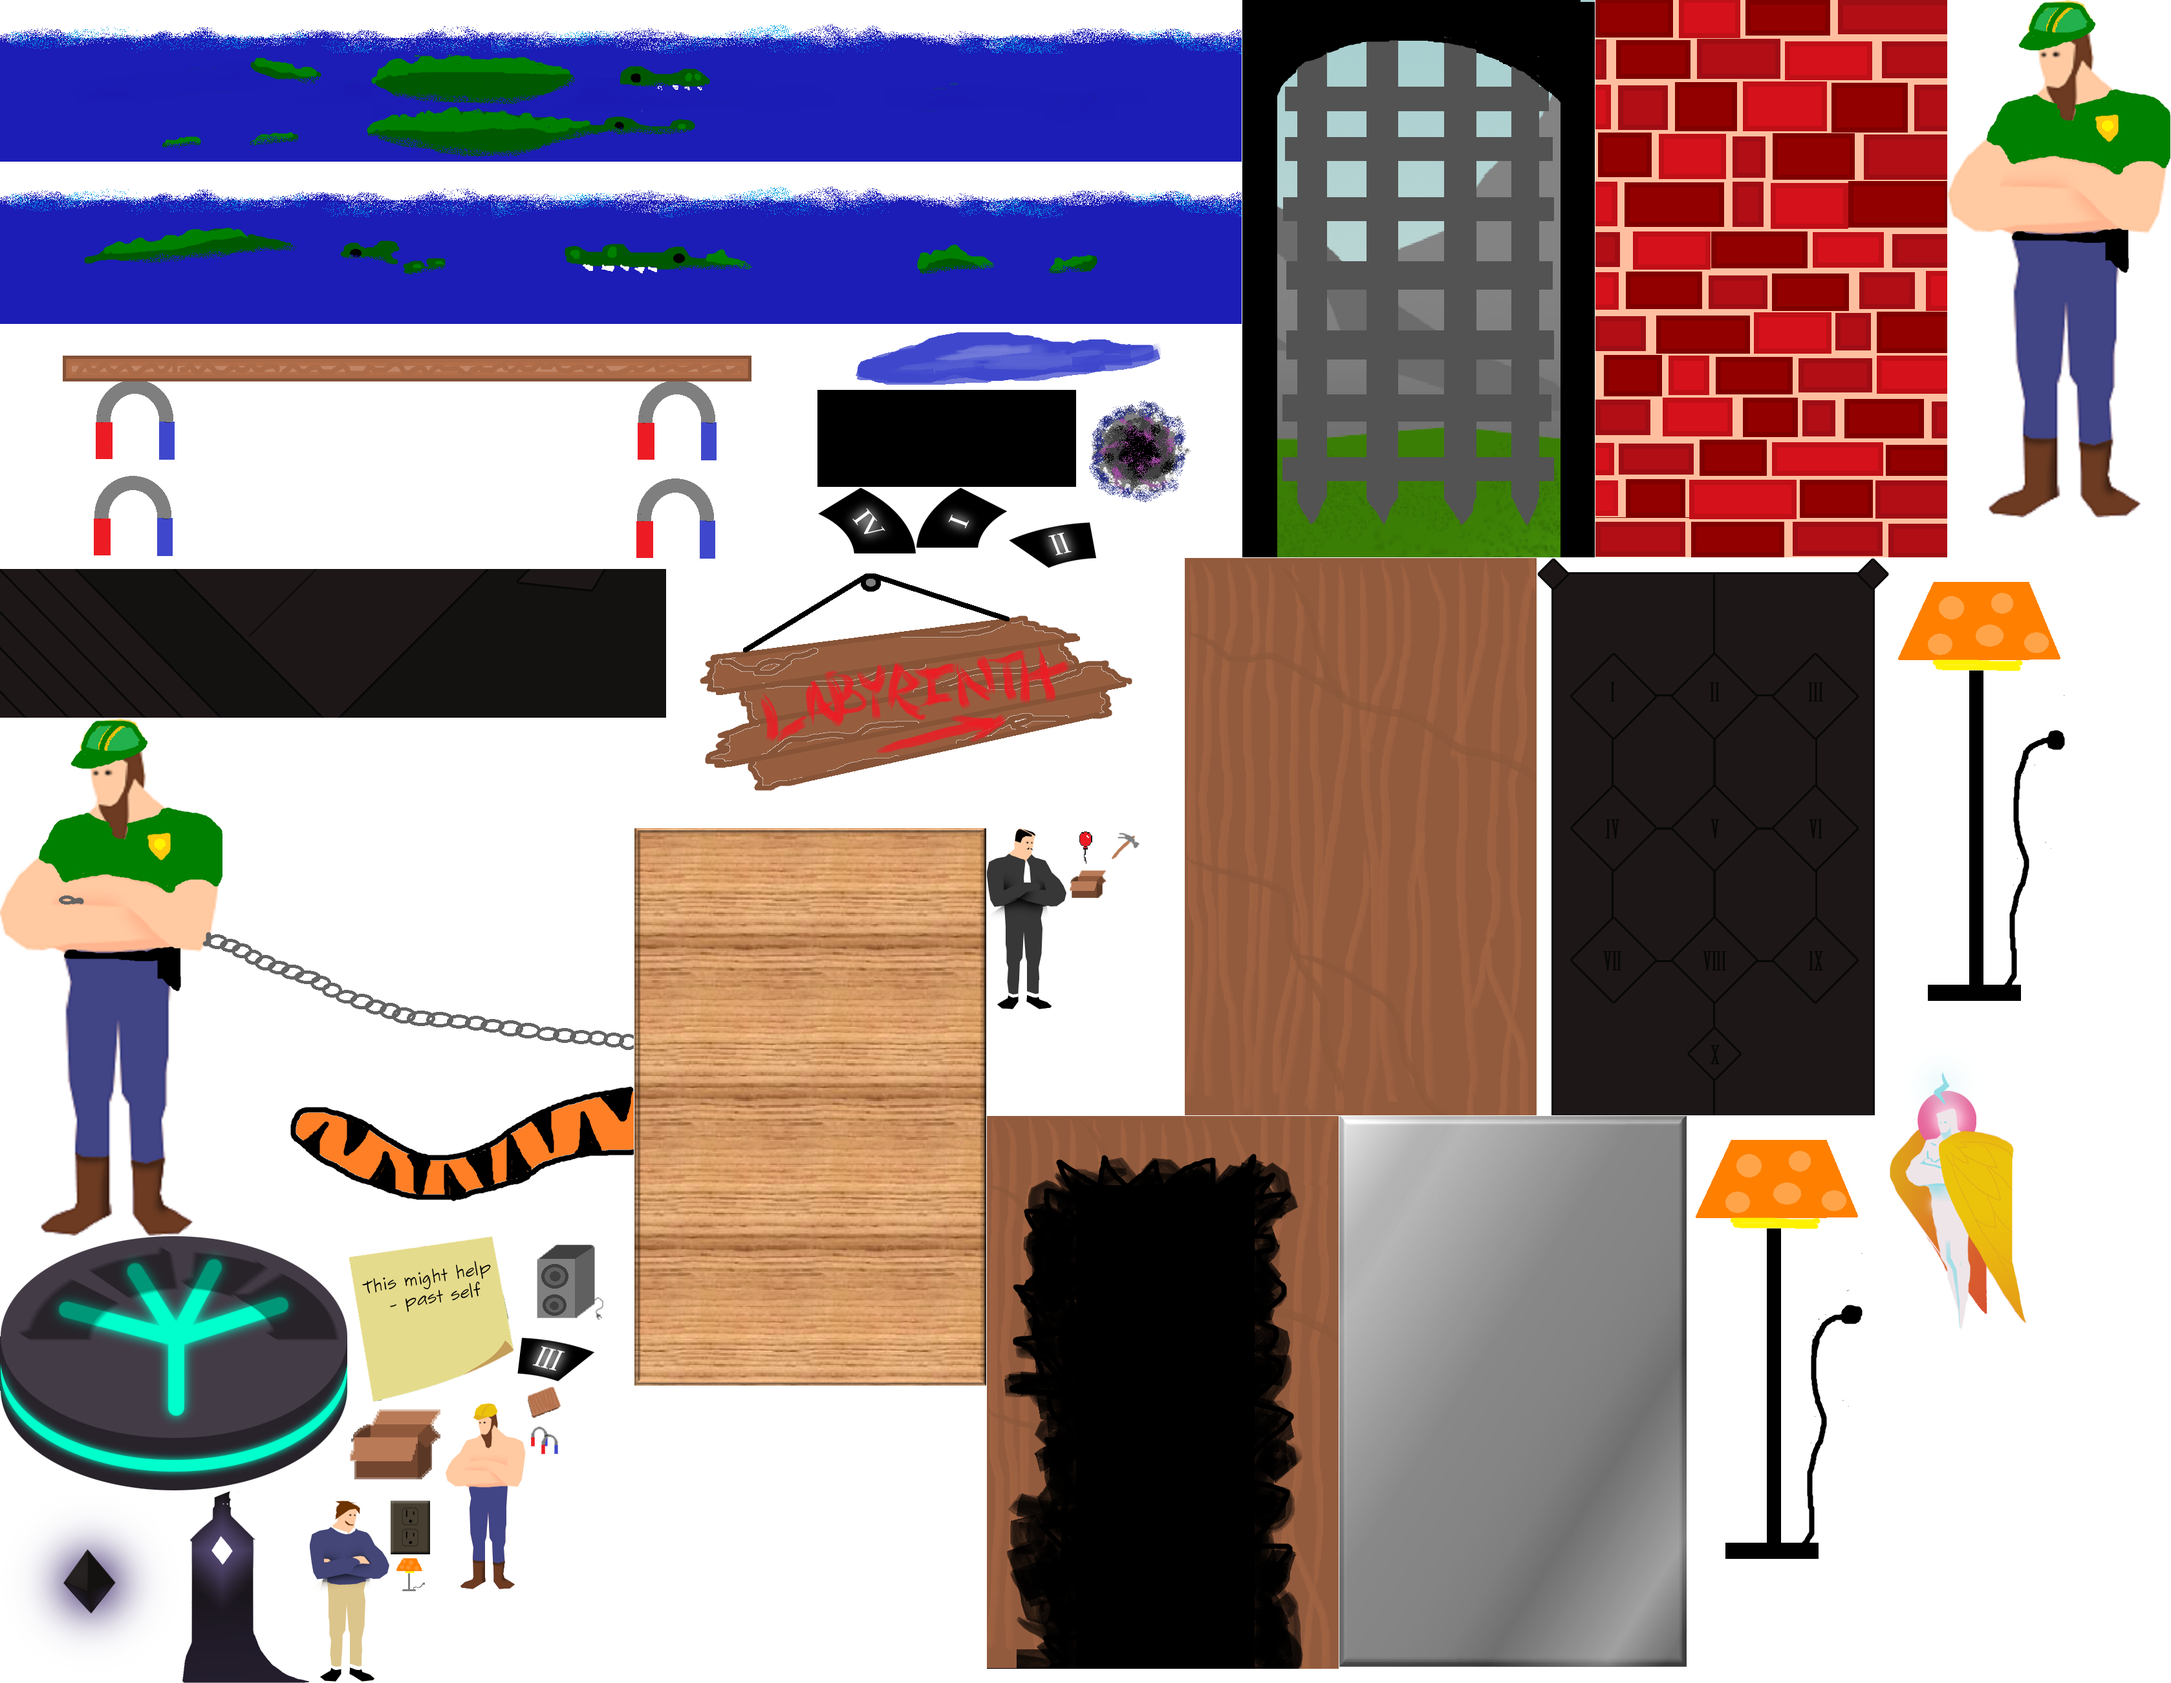
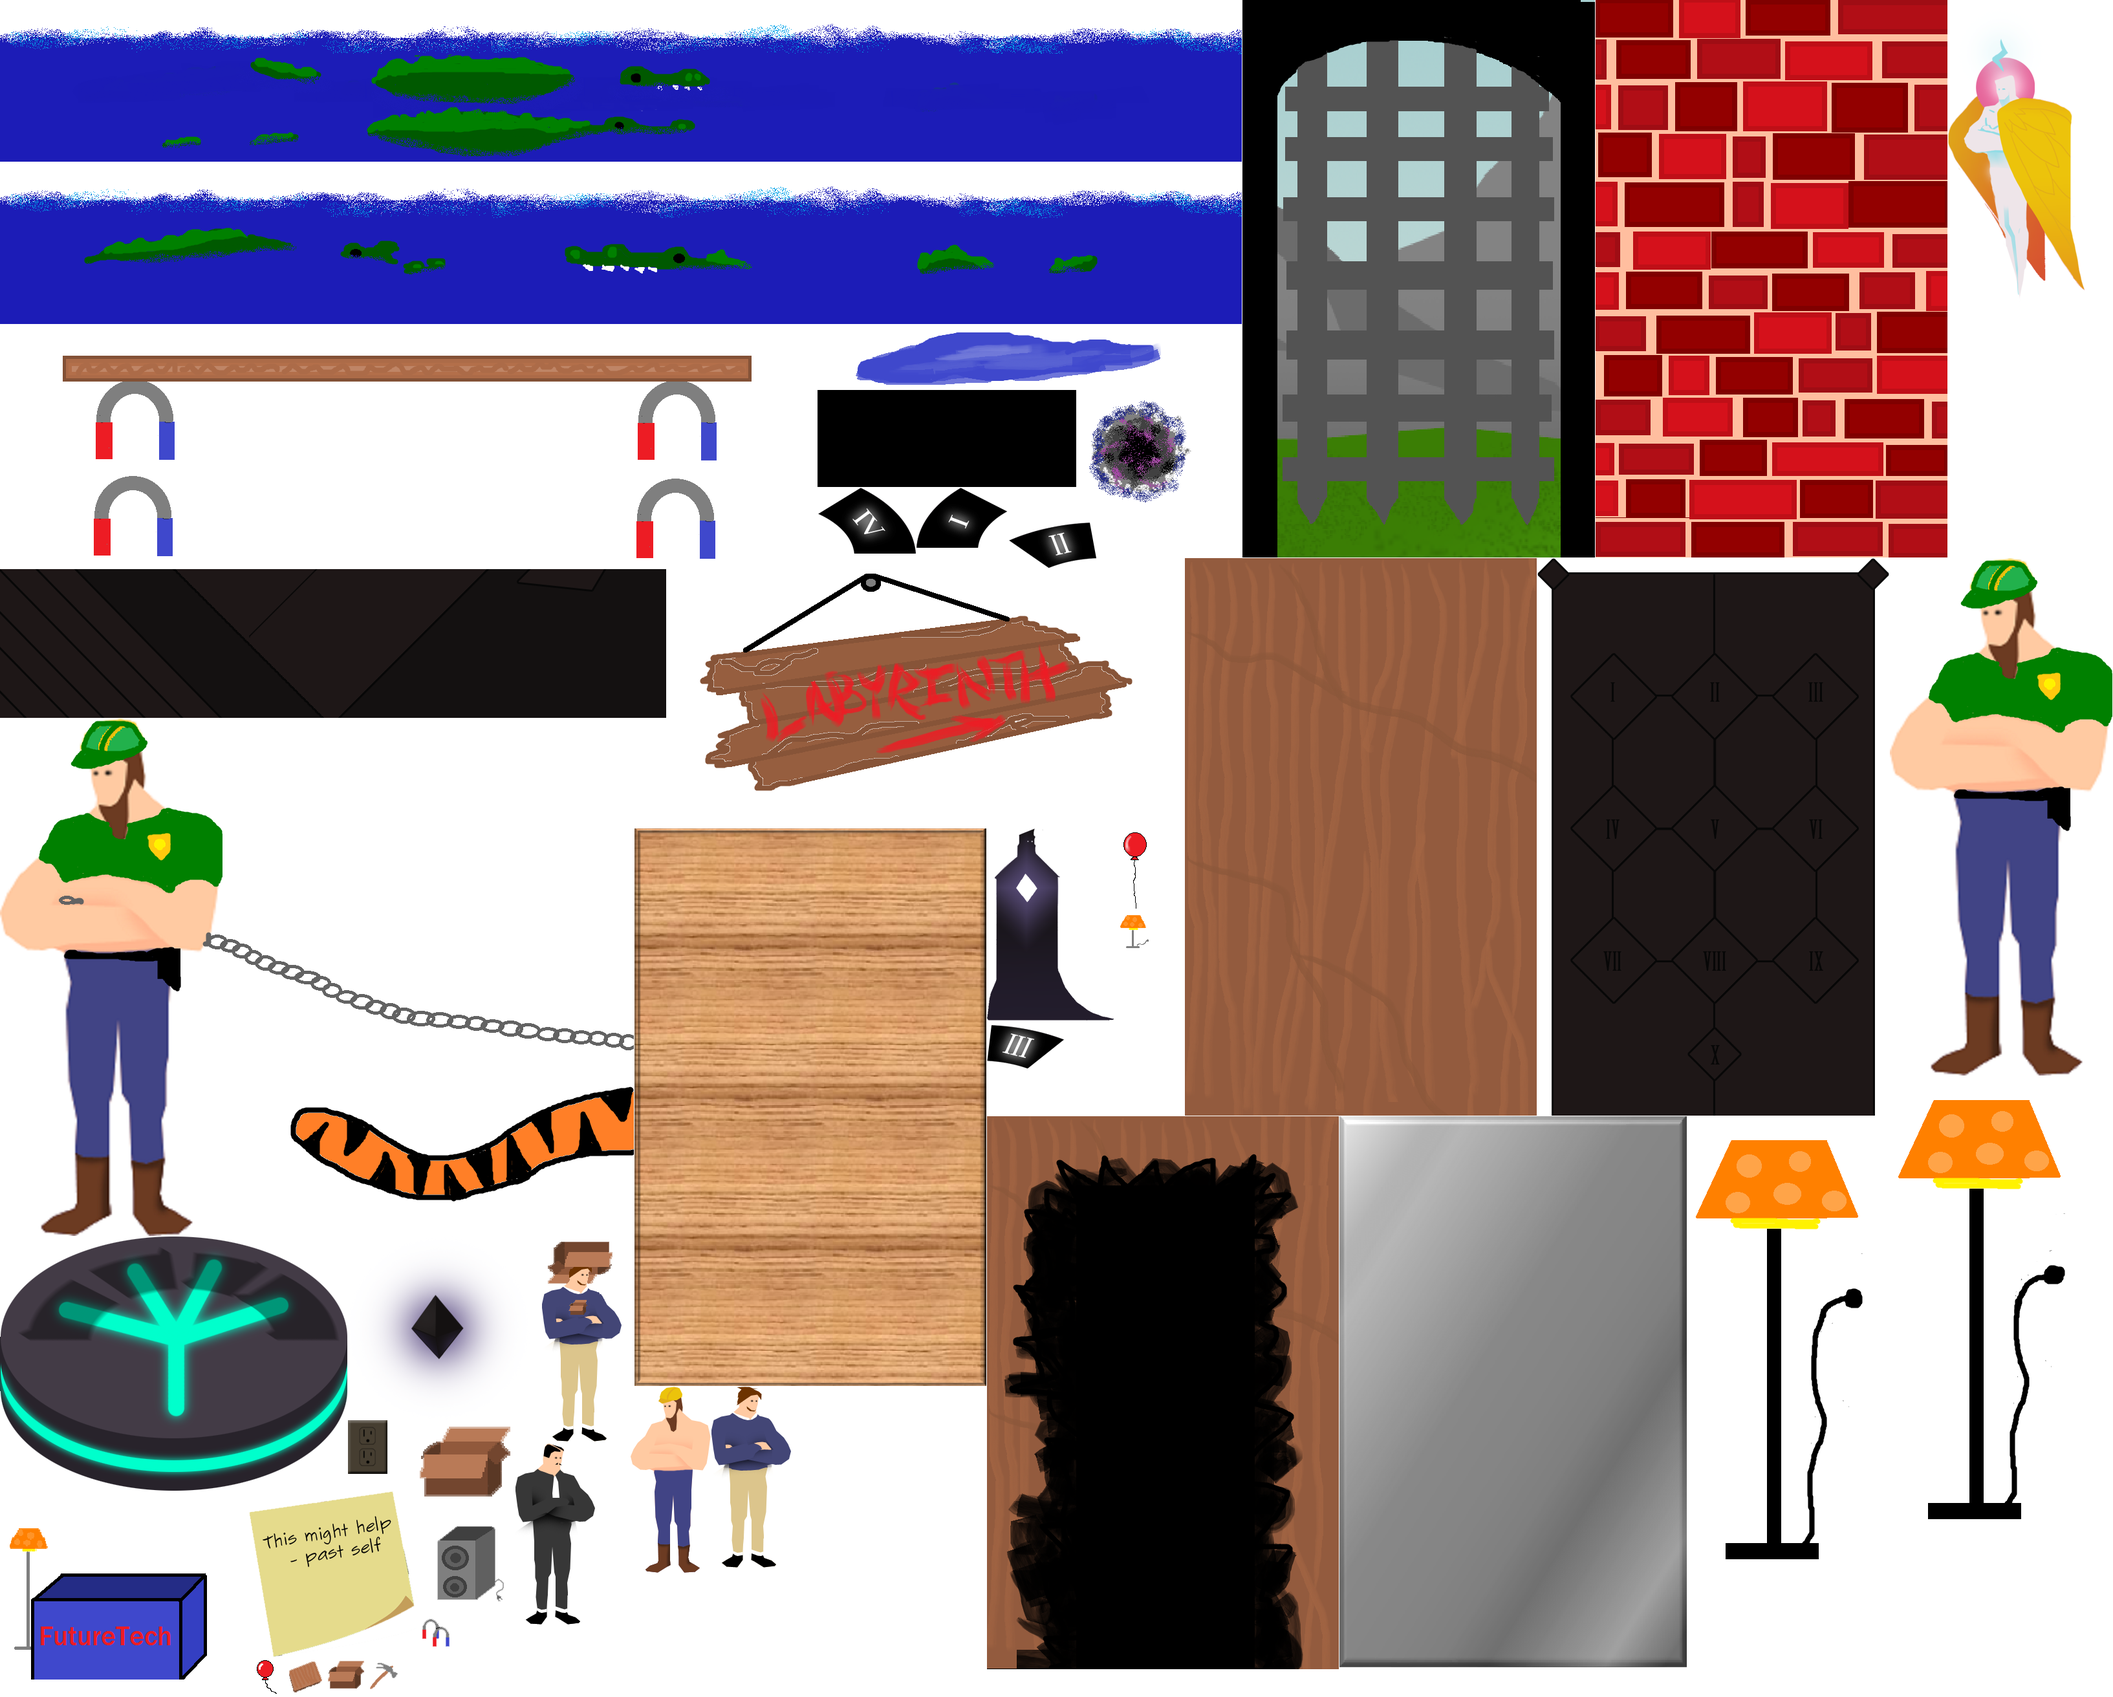
a few more images

diff --git a/index.bundle.js b/index.bundle.js
@@ -42867,7 +42867,8 @@ module.exports=//NO_FUTURE_TECH
 			"responses":[
 				{
 					"text": "Sure!",
-					"getItem": "balloon"
+					"getItem": "balloon",
+					"setGlobalTrue": "GAINED_BALLOON"
 				},
 				{
 					"text": "Only idiots would be impressed by balloons.",
@@ -46533,6 +46534,11 @@ ConstructionScene.prototype.added = function()
 		action: "triggerConversation",
 		target: require("../data/future_tech_conversation.json")
 	})
+	var tech_table = this.createClickableSprite("tech_table", -100, 100);
+	tech_table.addFalse("NO_FUTURE_TECH");
+	var balloon = this.createClickableSprite("balloonLarge", -40, -20);
+	balloon.addTrue("CARNIVAL");
+	balloon.addFalse("GAINED_BALLOON")
 	var hammer = this.createClickableSprite("hammer", 300, 320);
 	hammer.addAction({
 		action: "collectItem",
@@ -47575,52 +47581,55 @@ module.exports =
 "general":
 {
 	url: "media/general_atlas.png",
-	width: 3357,
-	height: 2603,
+	width: 3267,
+	height: 2624,
 	filter: THREE.LinearFilter,
 	sprites:
 	{
-	"balloon":[1653,1281,60,60],
+	"balloon":[384,2564,60,60],
+	"balloonLarge":[1723,1281,72,128],
 	"brickwall":[2467,0,544,862],
-	"builder_guy":[689,2170,124,288],
-	"cardboard":[814,2140,60,60],
-	"cardboardbox":[1653,1342,60,60],
-	"cardboardboxlarge":[538,2170,150,150],
+	"builder_guy":[975,2144,124,288],
+	"cardboard":[445,2564,60,60],
+	"cardboard_preacher":[820,1912,154,319],
+	"cardboardbox":[506,2564,60,60],
+	"cardboardboxlarge":[646,2196,150,150],
 	"cardboardWall":[1832,863,544,862],
 	"cardboardWallBroken":[1526,1726,544,855],
-	"crystal":[0,2306,281,283],
+	"crystal":[538,1912,281,283],
 	"empty_pit":[0,880,1030,230],
 	"grad_circle":[1697,804,64,64],
 	"grad_r":[1762,804,64,64],
-	"guard":[3012,0,344,800],
+	"guard":[2922,863,344,800],
 	"guardandtiger":[0,1111,980,800],
-	"hammer":[1714,1281,60,60],
-	"heaven_angel":[2922,1598,212,467],
-	"heaven_player":[282,2306,196,297],
+	"hammer":[567,2564,60,60],
+	"heaven_angel":[3012,0,212,467],
+	"heaven_player":[1526,1281,196,297],
 	"keydoor":[2377,863,544,862],
 	"labyrinth_sign":[1031,880,800,400],
-	"lamp":[604,2405,60,60],
-	"lampbig":[2922,863,300,734],
-	"lamplarge":[2609,1726,300,734],
-	"magnets":[814,2201,60,60],
+	"lamp":[1723,1410,60,60],
+	"lampbig":[2609,1726,300,734],
+	"lamplarge":[2922,1664,300,734],
+	"magnets":[646,2498,60,60],
 	"moat_full":[0,0,1920,250],
 	"moat_hungry":[0,251,1920,250],
-	"normal_guy_sprite":[479,2321,124,280],
-	"outlet":[604,2321,61,83],
+	"normal_guy_sprite":[1100,2144,124,280],
+	"outlet":[538,2196,61,83],
 	"pit_bridge":[0,502,1263,226],
 	"pit_edge":[1264,603,400,150],
 	"pit_magnets":[0,729,1263,150],
 	"portcullis":[1921,0,545,862],
 	"puddle":[1264,502,600,100],
-	"speaker":[800,1912,150,150],
+	"speaker":[646,2347,150,150],
 	"steelwall":[2071,1726,537,852],
-	"suit_sprite":[1526,1281,126,280],
+	"suit_sprite":[797,2232,126,280],
+	"tech_table":[0,2306,383,291],
 	"timedevice":[0,1912,537,393],
 	"timedevice_button1":[1417,754,141,93],
 	"timedevice_button2":[1559,804,137,75],
-	"timedevice_button3":[800,2063,120,76],
+	"timedevice_button3":[1526,1579,120,76],
 	"timedevice_button4":[1264,754,152,102],
-	"timedevice_sticky":[538,1912,261,257],
+	"timedevice_sticky":[384,2306,261,257],
 	"woodwall":[981,1281,544,862],
 	"wormhole":[1665,603,200,200],
 	},

diff --git a/src/sdk/atlases/index.js b/src/sdk/atlases/index.js
@@ -9,52 +9,55 @@ module.exports =
 "general":
 {
 	url: "media/general_atlas.png",
-	width: 3357,
-	height: 2603,
+	width: 3267,
+	height: 2624,
 	filter: THREE.LinearFilter,
 	sprites:
 	{
-	"balloon":[1653,1281,60,60],
+	"balloon":[384,2564,60,60],
+	"balloonLarge":[1723,1281,72,128],
 	"brickwall":[2467,0,544,862],
-	"builder_guy":[689,2170,124,288],
-	"cardboard":[814,2140,60,60],
-	"cardboardbox":[1653,1342,60,60],
-	"cardboardboxlarge":[538,2170,150,150],
+	"builder_guy":[975,2144,124,288],
+	"cardboard":[445,2564,60,60],
+	"cardboard_preacher":[820,1912,154,319],
+	"cardboardbox":[506,2564,60,60],
+	"cardboardboxlarge":[646,2196,150,150],
 	"cardboardWall":[1832,863,544,862],
 	"cardboardWallBroken":[1526,1726,544,855],
-	"crystal":[0,2306,281,283],
+	"crystal":[538,1912,281,283],
 	"empty_pit":[0,880,1030,230],
 	"grad_circle":[1697,804,64,64],
 	"grad_r":[1762,804,64,64],
-	"guard":[3012,0,344,800],
+	"guard":[2922,863,344,800],
 	"guardandtiger":[0,1111,980,800],
-	"hammer":[1714,1281,60,60],
-	"heaven_angel":[2922,1598,212,467],
-	"heaven_player":[282,2306,196,297],
+	"hammer":[567,2564,60,60],
+	"heaven_angel":[3012,0,212,467],
+	"heaven_player":[1526,1281,196,297],
 	"keydoor":[2377,863,544,862],
 	"labyrinth_sign":[1031,880,800,400],
-	"lamp":[604,2405,60,60],
-	"lampbig":[2922,863,300,734],
-	"lamplarge":[2609,1726,300,734],
-	"magnets":[814,2201,60,60],
+	"lamp":[1723,1410,60,60],
+	"lampbig":[2609,1726,300,734],
+	"lamplarge":[2922,1664,300,734],
+	"magnets":[646,2498,60,60],
 	"moat_full":[0,0,1920,250],
 	"moat_hungry":[0,251,1920,250],
-	"normal_guy_sprite":[479,2321,124,280],
-	"outlet":[604,2321,61,83],
+	"normal_guy_sprite":[1100,2144,124,280],
+	"outlet":[538,2196,61,83],
 	"pit_bridge":[0,502,1263,226],
 	"pit_edge":[1264,603,400,150],
 	"pit_magnets":[0,729,1263,150],
 	"portcullis":[1921,0,545,862],
 	"puddle":[1264,502,600,100],
-	"speaker":[800,1912,150,150],
+	"speaker":[646,2347,150,150],
 	"steelwall":[2071,1726,537,852],
-	"suit_sprite":[1526,1281,126,280],
+	"suit_sprite":[797,2232,126,280],
+	"tech_table":[0,2306,383,291],
 	"timedevice":[0,1912,537,393],
 	"timedevice_button1":[1417,754,141,93],
 	"timedevice_button2":[1559,804,137,75],
-	"timedevice_button3":[800,2063,120,76],
+	"timedevice_button3":[1526,1579,120,76],
 	"timedevice_button4":[1264,754,152,102],
-	"timedevice_sticky":[538,1912,261,257],
+	"timedevice_sticky":[384,2306,261,257],
 	"woodwall":[981,1281,544,862],
 	"wormhole":[1665,603,200,200],
 	},

diff --git a/src/game/scene_past_construction.js b/src/game/scene_past_construction.js
@@ -31,6 +31,11 @@ ConstructionScene.prototype.added = function()
 		action: "triggerConversation",
 		target: require("../data/future_tech_conversation.json")
 	})
+	var tech_table = this.createClickableSprite("tech_table", -100, 100);
+	tech_table.addFalse("NO_FUTURE_TECH");
+	var balloon = this.createClickableSprite("balloonLarge", -40, -20);
+	balloon.addTrue("CARNIVAL");
+	balloon.addFalse("GAINED_BALLOON")
 	var hammer = this.createClickableSprite("hammer", 300, 320);
 	hammer.addAction({
 		action: "collectItem",
